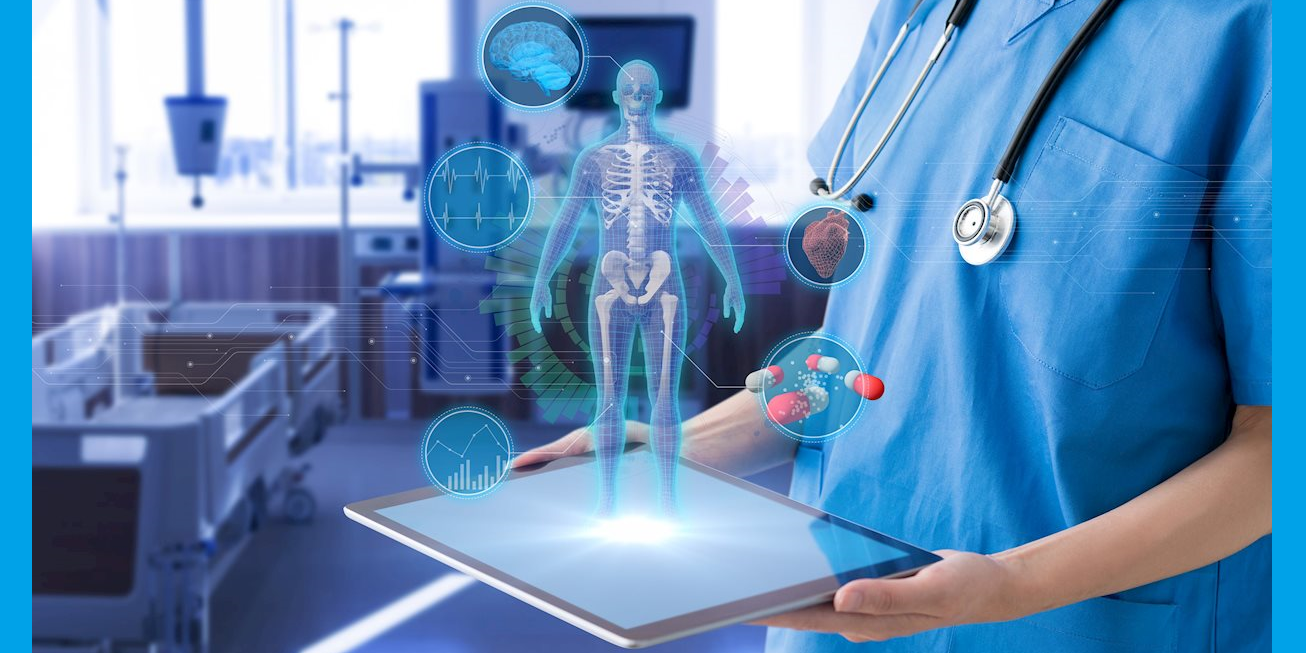
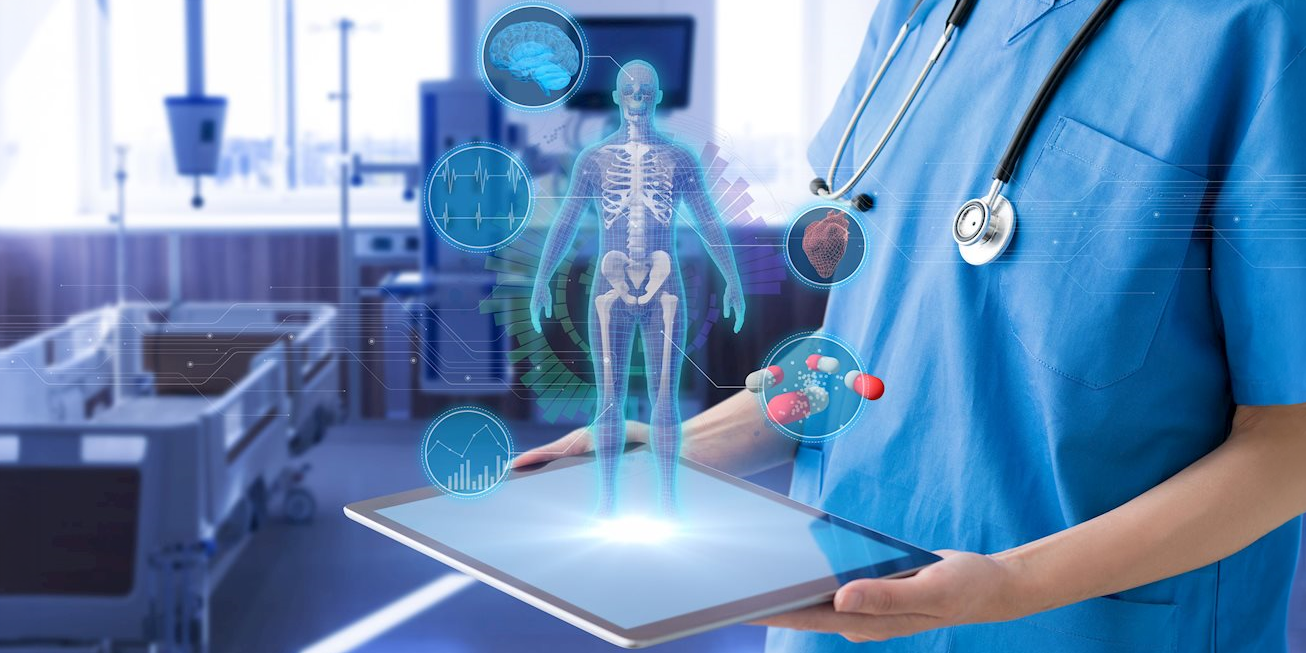
Update AI internships page: change section name to "Internships" and update image

Changed region(s): [[0.9495, 0.0, 1.0, 1.0], [0.0, 0.0, 0.0306, 1.0]]

diff --git a/website-rtc/pelicanconf.py b/website-rtc/pelicanconf.py
@@ -32,7 +32,7 @@ NAV_SECTIONS = [
     {"name": "Members", "url": "members", "icon": "users"},
     #     {"name": "Projects", "url": "projects", "icon": "folder"},
     #     {"name": "Vacancies", "url": "vacancies"},
-    {"name": "AI internships", "url": "student_projects", "icon": "book"},
+    {"name": "Internships", "url": "student_projects", "icon": "book"},
     {
         "name": "Publications",
         "url": "publications",

diff --git a/website-rtc/content/pages/info/  student_projects.md b/website-rtc/content/pages/info/  student_projects.md
@@ -3,6 +3,8 @@ description: AI internships at the Radboudumc for Master students. Do you have a
 groups: rtc
 picture: courses/Front_image2.png
 template: student-vacancies
+url: student_projects/
+save_as: student_projects/index.html
 
 ![AI internships]({{ IMGURL }}/images/courses/Front_image2.png)
 
